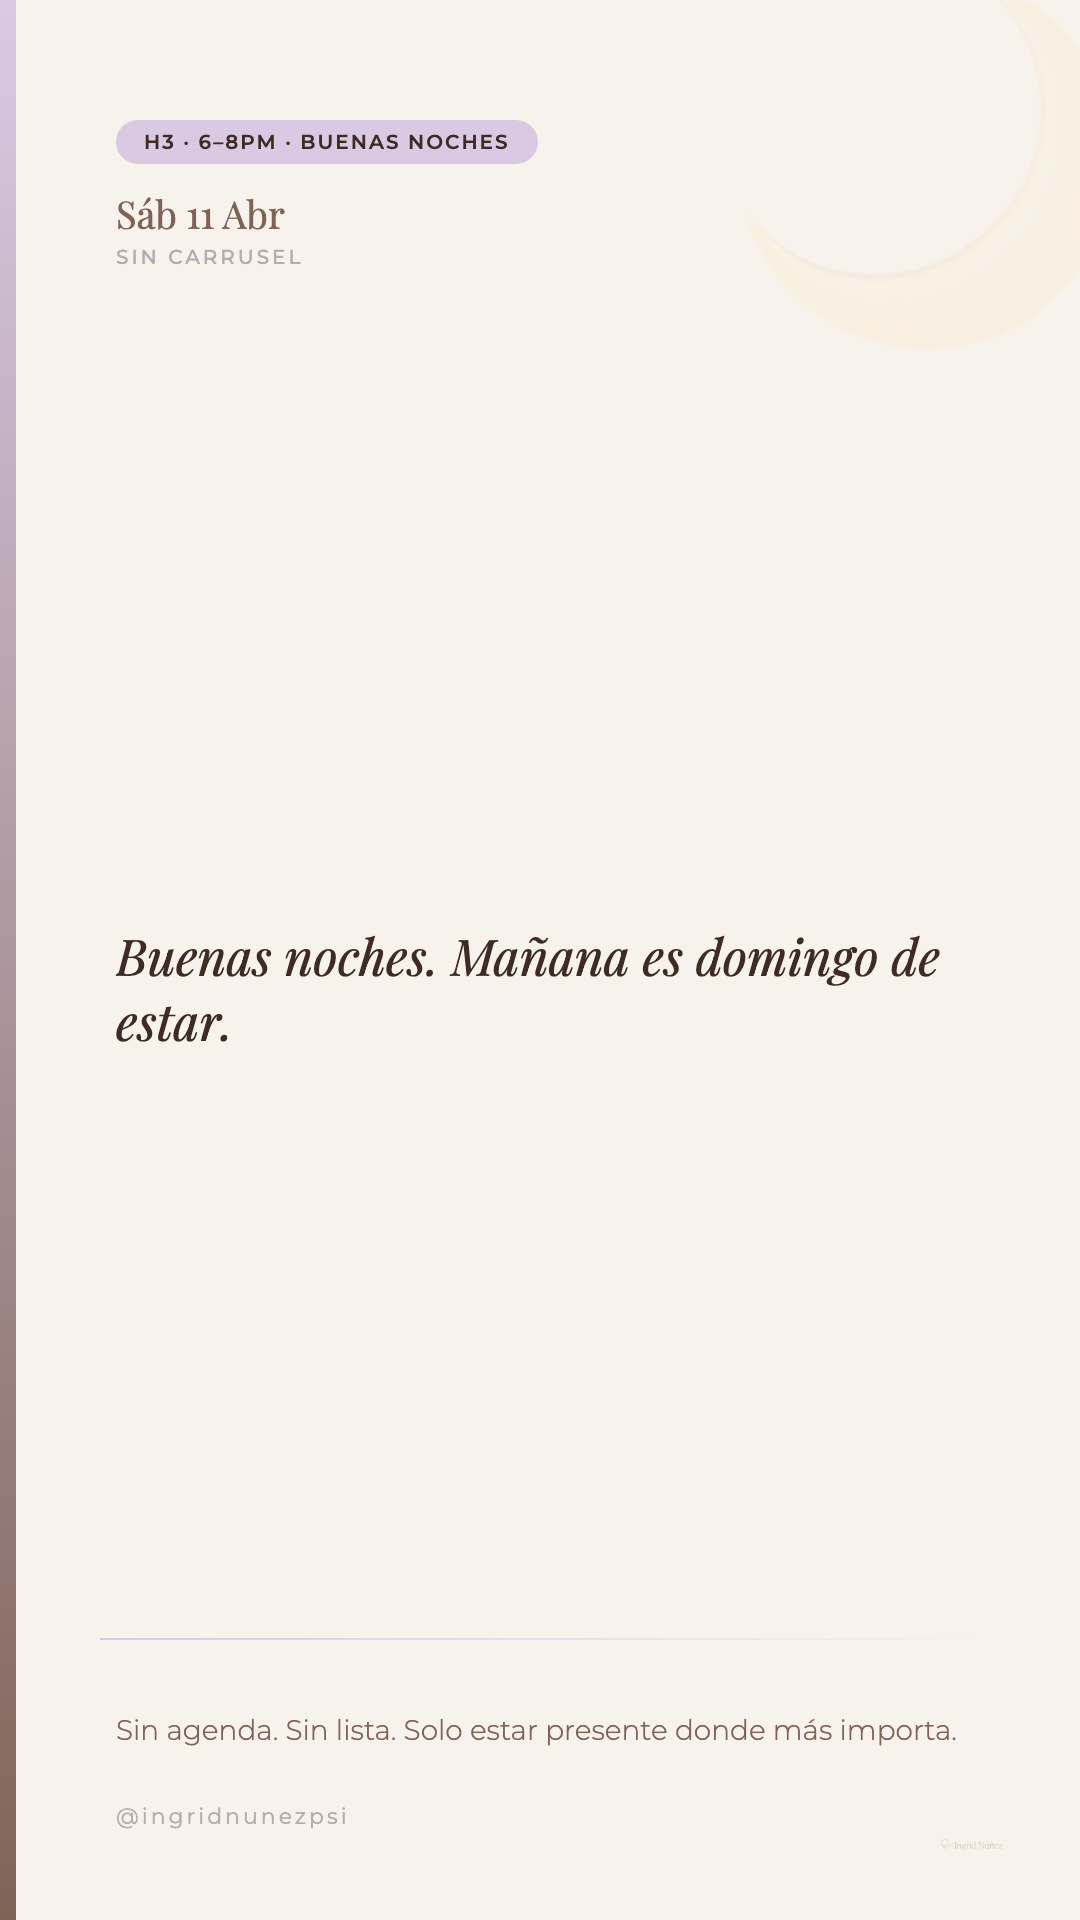
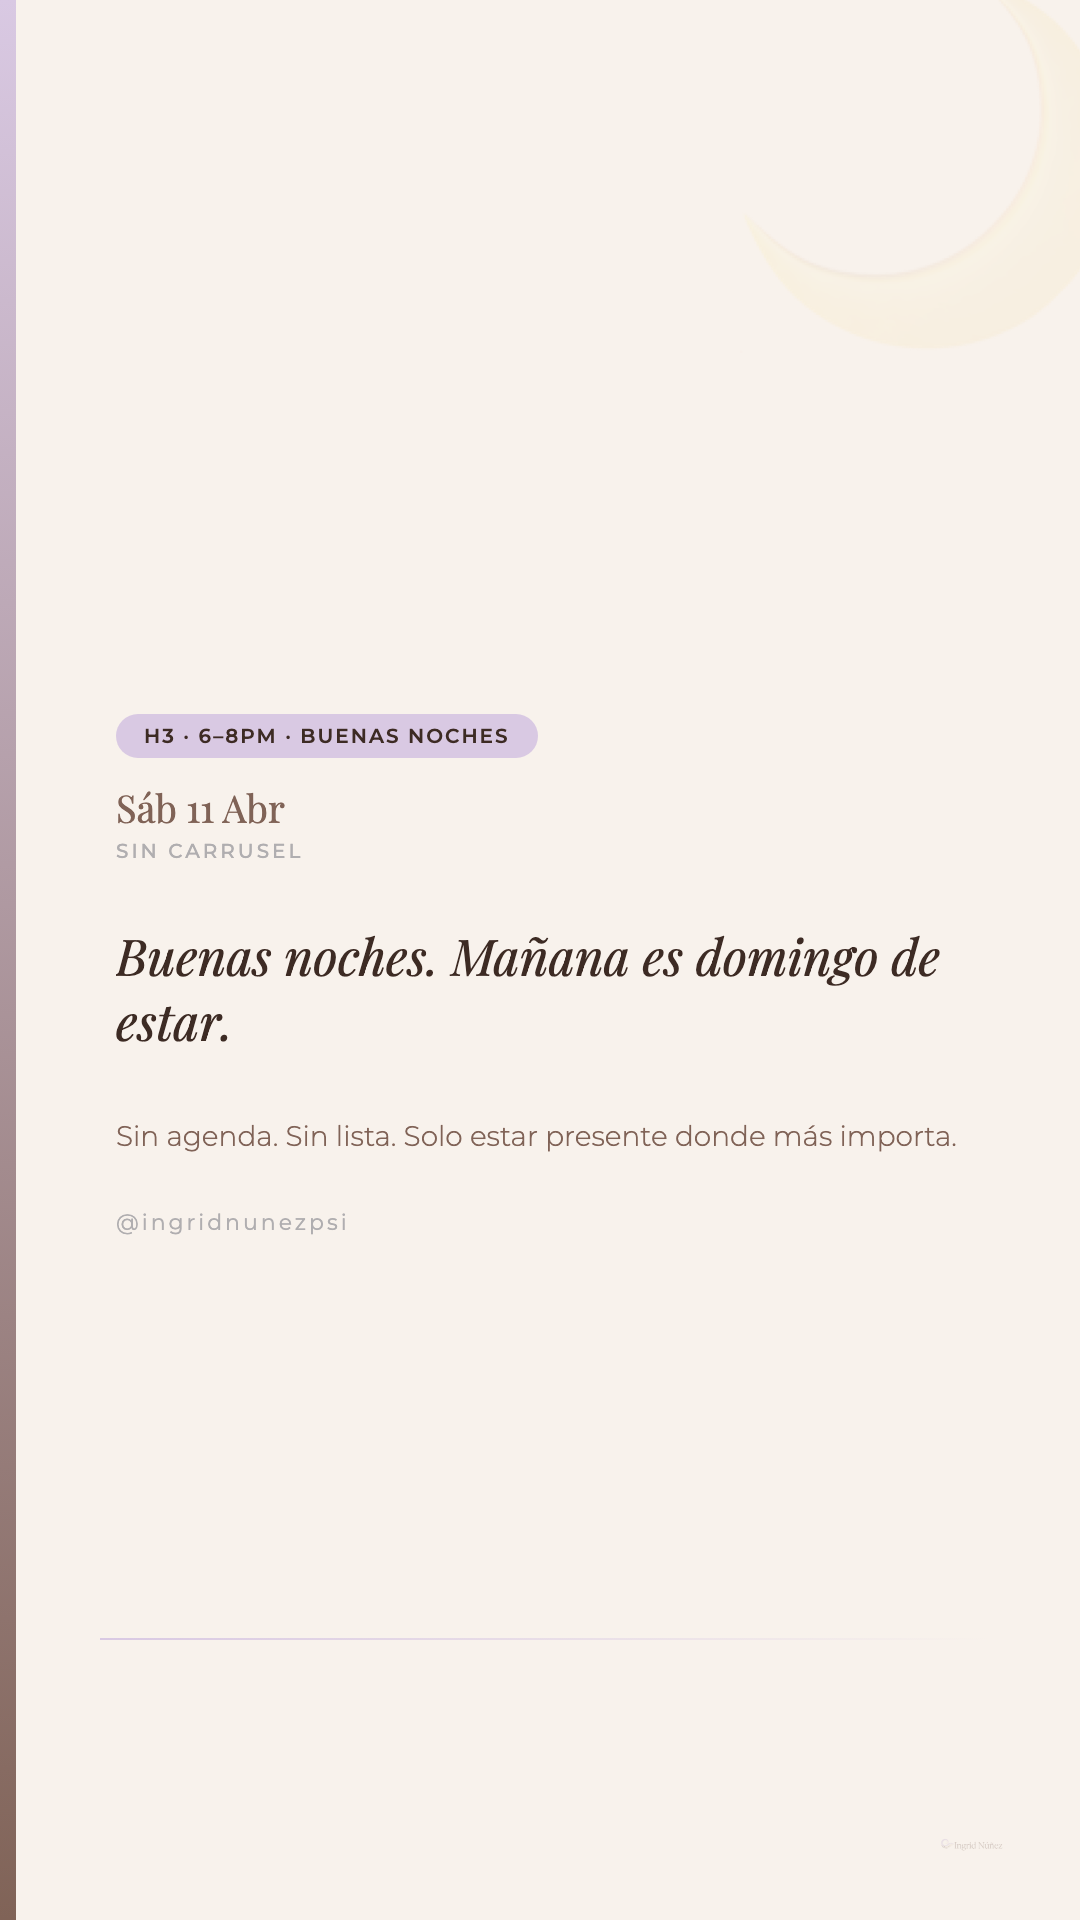
[FIX] Historias Abr 8, 11, 15: emojis corregidos + layouts arreglados
- Reemplazado gamepad por oso de peluche, corazón anatómico por 💜
- Escudo → 🌿, fotos recortadas arregladas, espacios vacíos centrados
- 9 PNGs re-exportados

diff --git a/HISTORIAS-BATCH4.html b/HISTORIAS-BATCH4.html
@@ -544,7 +544,7 @@ body { background:#1a1a1a; font-family:'Montserrat',sans-serif; }
 <!-- DIA_28 H1 — DARK MARRÓN -->
 <div class="slide dark-slide" data-dia="DIA_28" data-slot="H1">
   <div class="dark-glow"></div>
-  <div class="dark-emoji-bg">☕</div>
+  <div class="dark-emoji-bg" style="bottom:-40px; left:-40px; font-size:420px;">☕</div>
   <div class="dark-inner">
     <div>
       <div class="dark-badge">H1 · 8–9am · Buenos días</div>
@@ -564,7 +564,7 @@ body { background:#1a1a1a; font-family:'Montserrat',sans-serif; }
 <div class="slide lavanda-slide" data-dia="DIA_28" data-slot="H2">
   <div class="lavanda-circle-deco"></div>
   <div class="lavanda-circle-deco-2"></div>
-  <div class="lavanda-emoji-bg">🎮</div>
+  <div class="lavanda-emoji-bg">🧸</div>
   <div class="lavanda-inner">
     <div>
       <div class="lavanda-badge">H2 · 12–1pm · Dato del día</div>
@@ -586,13 +586,13 @@ body { background:#1a1a1a; font-family:'Montserrat',sans-serif; }
   <div class="beige-bar"></div>
   <div class="beige-accent-line"></div>
   <div class="beige-emoji-bg">🌙</div>
-  <div class="beige-inner">
+  <div class="beige-inner" style="justify-content:center; gap:60px;">
     <div>
       <div class="beige-badge">H3 · 6–8pm · Buenas noches</div>
       <div class="beige-fecha">Sáb 11 Abr</div>
       <div class="beige-topic">Sin carrusel</div>
     </div>
-    <div class="beige-quote">Buenas noches. Mañana es domingo de estar.</div>
+    <div class="beige-quote" style="flex:none;">Buenas noches. Mañana es domingo de estar.</div>
     <div>
       <div class="beige-sub">Sin agenda. Sin lista. Solo estar presente donde más importa.</div>
       <div class="beige-footer"><span class="handle">@ingridnunezpsi</span></div>
@@ -807,7 +807,7 @@ body { background:#1a1a1a; font-family:'Montserrat',sans-serif; }
 <div class="slide lavanda-slide" data-dia="DIA_32" data-slot="H1">
   <div class="lavanda-circle-deco"></div>
   <div class="lavanda-circle-deco-2"></div>
-  <div class="lavanda-emoji-bg">🫀</div>
+  <div class="lavanda-emoji-bg">💜</div>
   <div class="lavanda-inner">
     <div>
       <div class="lavanda-badge">H1 · 8–9am · Buenos días</div>
@@ -828,7 +828,7 @@ body { background:#1a1a1a; font-family:'Montserrat',sans-serif; }
 <div class="slide beige-slide" data-dia="DIA_32" data-slot="H2">
   <div class="beige-bar"></div>
   <div class="beige-accent-line"></div>
-  <div class="beige-emoji-bg">📖</div>
+  <div class="beige-emoji-bg" style="font-size:320px; right:-20px; top:0;">📖</div>
   <div class="beige-inner">
     <div>
       <div class="beige-badge">H2 · 12–1pm · Último carrusel</div>
@@ -846,15 +846,15 @@ body { background:#1a1a1a; font-family:'Montserrat',sans-serif; }
 
 <!-- DIA_32 H3 — SPLIT DARK/BEIGE -->
 <div class="slide split-slide" data-dia="DIA_32" data-slot="H3">
-  <div class="split-top">
+  <div class="split-top" style="height:900px;">
     <div class="split-bg-glow"></div>
     <div class="split-emoji">💜</div>
     <div class="split-badge">H3 · 6–8pm · Cierre de mes</div>
     <div class="split-headline">Gracias por acompañarme este mes. Esto apenas empieza.</div>
     <div class="split-sub-dark">Mié 15 Abr · C20 Presencia</div>
   </div>
-  <div class="split-bottom">
-    <div class="split-content">Lo que sembramos este mes tiene raíces. El próximo mes, seguimos creciendo juntos.</div>
+  <div class="split-bottom" style="padding:50px 90px 80px; justify-content:center; gap:40px;">
+    <div class="split-content" style="flex:none;">Lo que sembramos este mes tiene raíces. El próximo mes, seguimos creciendo juntos.</div>
     <div class="split-footer"><span class="handle">@ingridnunezpsi</span></div>
   </div>
   <img class="logo-wm" src="LOGOS/logo-sobre-claro.png" alt="logo">

diff --git a/HISTORIAS-BATCH3.html b/HISTORIAS-BATCH3.html
@@ -1050,8 +1050,8 @@ body {
 <div class="slide tpl-scrapbook" data-dia="DIA_25" data-slot="H2">
   <div class="scrap-tape-top"></div>
   <div class="scrap-tape-bot"></div>
-  <div class="scrap-bg-char pos1">🛡</div>
-  <div class="scrap-bg-char pos2">💙</div>
+  <div class="scrap-bg-char pos1">🌿</div>
+  <div class="scrap-bg-char pos2">💛</div>
   <div class="scrap-corner-tl"></div>
   <div class="scrap-corner-br"></div>
   <div class="scrap-inner">
@@ -1070,15 +1070,16 @@ body {
 
 <!-- DIA 25 H3 — PHOTO OVERLAY (IMG_3277 blusa puntos, laptop) -->
 <div class="slide tpl-photo" data-dia="DIA_25" data-slot="H3">
-  <div class="photo-bg" style="background-image:url('RECURSOS%20VISUALES/IMG_3277.jpeg')"></div>
-  <div class="photo-gradient"></div>
-  <div class="photo-inner">
+  <div class="photo-bg" style="background-image:url('RECURSOS%20VISUALES/IMG_3277.jpeg'); background-position:center 20%;"></div>
+  <div class="photo-gradient" style="background: linear-gradient(180deg, rgba(61,43,36,.10) 0%, rgba(61,43,36,.18) 25%, rgba(61,43,36,.55) 55%, rgba(29,19,15,.92) 80%, rgba(29,19,15,.98) 100%);"></div>
+  <div class="photo-inner" style="justify-content:flex-start; padding-top:130px;">
     <div>
       <div class="photo-badge">H3 · Buenas noches</div>
       <div class="photo-fecha">Mié 08 Abr</div>
       <div class="photo-tema">C18 Límites</div>
     </div>
-    <div class="photo-main">Límites claros + amor incondicional = seguridad emocional.</div>
+    <div style="flex:1;"></div>
+    <div class="photo-main" style="margin-bottom:120px;">Límites claros + amor incondicional = seguridad emocional.</div>
     <div class="photo-footer">
       <span class="photo-handle">@ingridnunezpsi</span>
       <span class="photo-web">psicolaingridnunez.lovable.app</span>
